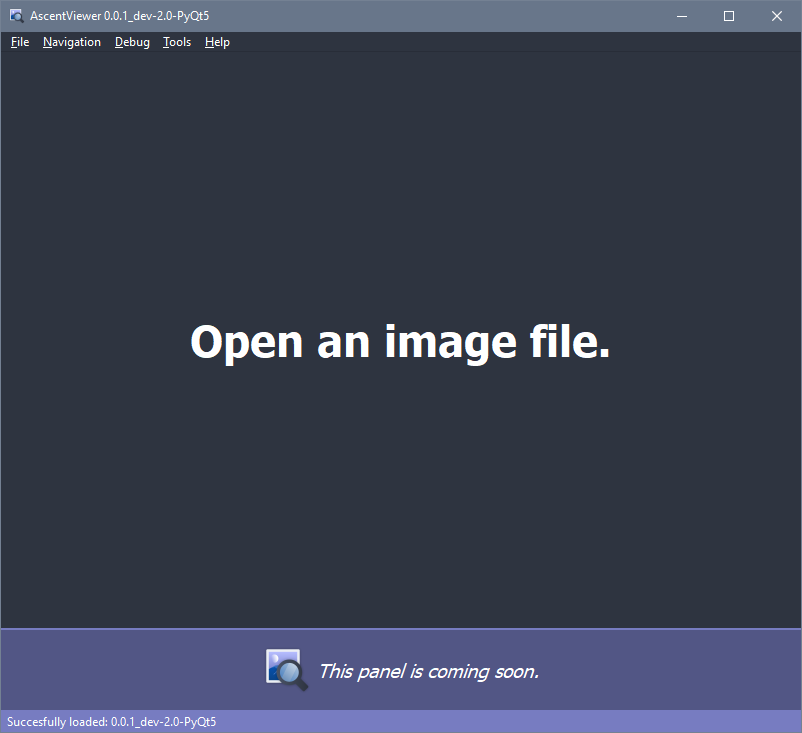
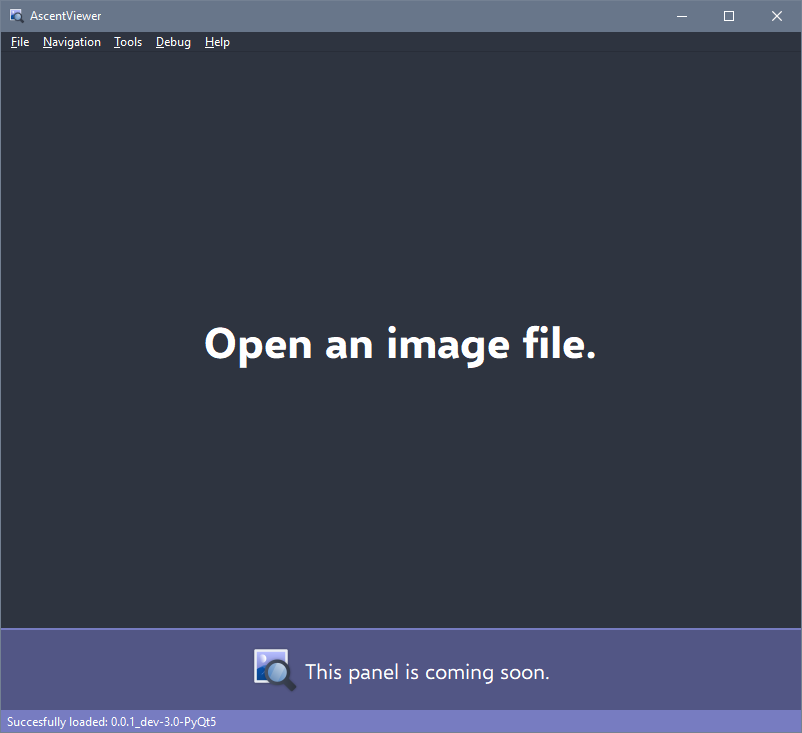
Added Releaser and changed some other things

Changed region(s): [[0.2182, 0.4202, 0.7481, 0.5102], [0.3117, 0.8704, 0.6858, 0.9604], [0.1247, 0.0, 0.2494, 0.09]]

diff --git a/source/releaser/lib/rlsr_logging.py b/source/releaser/lib/rlsr_logging.py
@@ -1,3 +1,5 @@
+# A modified version of AscentViewer's logger.
+
 import sys
 import logging
 import datetime
@@ -23,22 +25,22 @@ date_format_file = "%d%m%Y_%H%M%S"
 date_format = "%d-%m-%Y %H:%M:%S"
 
 try:
-    os.chdir(os.path.abspath(__file__.replace(os.path.basename(__file__), "../..")))
+    os.chdir(os.path.abspath(__file__.replace(os.path.basename(__file__), "..")))
 except:
     pass
 
-config = json.load(open("data/user/config.json", encoding="utf-8"))
+config = json.load(open("config/config.json", encoding="utf-8"))
 
 print("Deleting logs on statup is ", end="")
 if config["temporary_files"]["logs"]["deleteLogsOnStartup"]:
     print("enabled, erasing all logs...")
-    logs = glob.glob("data/user/temp/logs/log*.log")
+    logs = glob.glob("logs/log*.log")
     for f in logs:
         os.remove(f)
 else:
     print("disabled, not deleting logs.")
 
-logfile = f"data/user/temp/logs/log_{datetime.datetime.now().strftime(date_format_file)}.log"
+logfile = f"logs/log_{datetime.datetime.now().strftime(date_format_file)}.log"
 with open(logfile, "a") as f: # this code is a bit messy but all this does is just write the same thing both to the console and the logfile
     m = "="*20 + "[ BEGIN LOG ]" + "="*20
     f.write(f"{m}\n")
@@ -51,7 +53,7 @@ logging.basicConfig(level=loggingLevel,
                     format="[%(asctime)s | %(name)s | %(funcName)s | %(levelname)s] %(message)s",
                     datefmt=date_format)
 
-ascvLogger = logging.getLogger("Main logger")
+expLogger = logging.getLogger("Main logger")
 stdouterrLogger = logging.getLogger("stdout/stderr")
-sys.stdout = StreamToLogger(stdouterrLogger, logging.INFO)
-sys.stderr = StreamToLogger(stdouterrLogger, logging.ERROR)
+#sys.stdout = StreamToLogger(stdouterrLogger, logging.INFO)
+#sys.stderr = StreamToLogger(stdouterrLogger, logging.ERROR)

diff --git a/source/releaser/releaser.py b/source/releaser/releaser.py
@@ -1,0 +1,36 @@
+# A script that uses auto-py-to-exe and PyInstaller to export a Windows executable from the source code.
+
+import sys
+import os
+import subprocess
+
+class MainExporter:
+    def __init__(self):
+        # from https://stackoverflow.com/a/24595376/14558305
+        #proc = subprocess.Popen("python --version", stdout=subprocess.PIPE, shell=True)
+        #(out, err) = proc.communicate()
+        #expLogger.info(out)
+
+        subprocess.run("pyinstaller --noconfirm --onedir --console --icon \"icon3_UaA_icon.ico\" --name \"AscentViewer\" --add-data \"../data;data/\"  \"../ascv.py\"")
+
+if __name__ == "__main__":
+    print("This script might make some changes to your system. Are you sure you want to continue? (y/yes/n/no)\n> ", end="")
+    answer = input().lower()
+
+    if answer == "y" or answer == "yes":
+        print("Okay, continuing script...")
+    elif answer == "n" or answer == "no":
+        print("Okay, cancelling script...")
+        exit()
+
+    # I like to force-delete variables that will not be used anymore.
+    del answer 
+
+    from lib.rlsr_logging import *
+
+    try:
+        os.chdir(__file__.replace(os.path.basename(__file__), ""))
+    except:
+        pass
+
+    MainExporter()

diff --git a/source/releaser/lib/add_lib.py b/source/releaser/lib/add_lib.py
@@ -1,0 +1,7 @@
+# from https://medium.com/@philipp.h/reduce-clutter-when-using-pyinstaller-in-one-directory-mode-b631b9f7f89b
+
+import sys
+import os
+
+sys.path.append(os.path.join(os.getcwd(), 'lib'))
+sys._MEIPASS=os.path.join(sys._MEIPASS, 'lib')

diff --git a/README.md b/README.md
@@ -6,29 +6,21 @@
 ![GitHub commit activity](https://img.shields.io/github/commit-activity/m/despawnedd/AscentViewer?logo=github)
 ![GitHub repo size](https://img.shields.io/github/repo-size/despawnedd/AscentViewer?logo=github)
 
-**AscentViewer** is an image viewer written in [**Python**](https://www.python.org/) based on [**PyQt**](https://riverbankcomputing.com/software/pyqt/) and [**several other libraries.**](other/markdown/CREDITS.md)
+**AscentViewer** is an image viewer written in [Python](https://www.python.org/) based on [PyQt](https://riverbankcomputing.com/software/pyqt/) and [several other libraries.](other/markdown/CREDITS.md)
 
-Here is [**its website**](https://dd.acrazytown.com/AscentViewer/).
+Here is [its website](https://dd.acrazytown.com/AscentViewer/).
 
 ---
 
-## Possible switch to C++ Qt
-
-There is a high possibility that we will switch from PyQt to native C++ Qt, due to various reasons, such as:
-
-* More documentation
-* Speed and control
-* etc.
-
-If we do decide to switch to native C++ Qt, we'll make a stable Python version, and then archive it (put it in a different branch, like old DDIV).
+<!-- NOTE: Add notice about downloads. -->
 
 ## What happened to DDIV?
 
-DDIV got renamed to "**AscentViewer**".
+DDIV got renamed to **AscentViewer**.
 
-The main reason for that is that [**DespawnedDiamond**](https://github.com/despawnedd) (the owner) is not the only one working on it anymore, and the second reason is that "AscentViewer" just sounds cooler!
+The main reason for that is that the owner of the program, [DespawnedDiamond](https://github.com/despawnedd), is not the only one working on it anymore (DDIV was short for <u>*DespawnedDiamond's*</u> *Image Viewer*"), and the second reason is that "AscentViewer" just sounds better.
 
-Looking for old, pre-rename/Old Pre-release Beta code? Check out the [**"pre-rename" branch.**](https://github.com/despawnedd/AscentViewer/tree/pre-rename)
+Looking for old, pre-rename/Old Pre-release Beta code? Check out the ["pre-rename" branch.](https://github.com/despawnedd/AscentViewer/tree/pre-rename)
 
 ---
 
@@ -36,51 +28,83 @@ Looking for old, pre-rename/Old Pre-release Beta code? Check out the [**"pre-ren
 
 ![Main window screenshot](other/examples/ascv_0.0.1_pre-release.png)
 
-> *AscentViewer 0.0.1_dev-2.0-PyQt5's main window*
+> *AscentViewer's main window*
 
 ![About window screenshot](other/examples/ascv_0.0.1_pre-release_about.png)
 
-> *AscentViewer 0.0.1_dev-2.2-PyQt5's about window*
+> *AscentViewer's about window*
 
-## How to install
+## How to run/install
 
-* Install Python 3.7+ (make sure you install ``pip``)
+You can either use one of the prebuilt binaries in one of the [Releases](https://github.com/despawnedd/AscentViewer/releases), or you could run the raw Python version.
+
+Here are the instructions for running the raw Python version:
+
+### Windows
+
+* Install Python 3.7 or higher from [here](https://www.python.org/downloads/).
+* Run `py -m pip install -r requirements.txt` (or `pip install -r requirements.txt` if you installed Python on PATH)
+* Run [ascv.py](source/ascv.py).
+
+### macOS
+
+macOS usually comes with a copy of Python but that's an old version which isn't supported.
+
+The procedure is the same as on Windows:
+
+* Download and install Python 3.7 or higher from [here](https://www.python.org/downloads/).
+* Run `python3 -m pip install -r requirements.txt`.
+* Run [ascv.py](source/ascv.py).
+
+### Linux
+
+* Install Python 3.7 or higher. The recommeneded way to do so is by installing it using a package manager, such as apt (`apt install python3`). Note: using a package manager might require administrator access.
+* You might also have to install qt5-default (for apt, the command is `apt install qt5-default`).
+* Run `python3 -m pip install -r requirements.txt`.
+* Run [ascv.py](source/ascv.py).
+
+<!-- ### Windows
+
+* Install Python 3.7 or higher somehow. The recommended way to do so is by downloading it from Python's official website:
+  * Download Python 3.7 or higher from [Python's website](https://www.python.org/downloads/).
+  * Install the downloaded Python version (make sure you select the [Add to PATH  checkbox](other/markdown/img/add_to_path_win.png))
+* Run [ascv.py](source/ascv.py), either by opening it in File Explorer (if you installed the [Python launcher()]), or by running it from the command line.
+
+### macOS
+
+Detailed instructions for macOS are coming soon
+
+### Linux
+
+> Please correct me if something is wrong here by creating an issue or a pull request.
+
+* Install Python 3.7 or higher, either by building it from source, or by installing it using your favourite package manager, such as apt (``sudo apt install python3``).
+* You might have to install ``qt5-default``. Again, install it by using your favourite package manager, such as apt (``sudo apt install qt5-default``).
+* Run [ascv.py](source/ascv.py) using the Python version you installed. If you installed it using a package manager (of if you have added it to PATH yourself), this can be done by running ``python3 [path to ascv.py]`` (eg. ``python3 ascv.py``) -->
+
+**tl;dr:** Install Python, and then run [ascv.py](source/ascv.py).
+
+<!-- * Install Python 3.7+ (make sure you install ``pip``)
 * Run ``pip install -r requirements.txt`` while in the root directory, or just manually install the required packages
-* If you're on Linux, you might have to install ``qt5-default`` (on Ubuntu, the command is ``sudo apt install qt5-default``)
+* If you're on Linux, you might have to install ``qt5-default`` (on Ubuntu, the command is ``sudo apt install qt5-default``) 
 
-And that's it.
+And that's it. -->
 
 ## Credits
 
-Credits are coming soon.
+You can read the credits [here](other/markdown/CREDITS.md).
 
 ## Documentation
 
-It's coming soon, just like the credits.
+You can read the documentation [here](https://github.com/despawnedd/AscentViewer/wiki).
 
 ## Release version naming info
 
 Each version name consists of four elements:
 
-- major version number
-- minor version number
-- revision number
-- additional info (such as the branch)
+* major version number
+* minor version number
+* revision number
+* additional info (such as the branch, the pre-release version number, etc.)
 
 e.g. **1.0.3_dev-1.3**
-
-*Will add more info about this later.*
-
-<!-- ### Version Structure (a.b.c-bld-rev_rl)
-
-"**a**" is the **major version** number (e.g. "**1.0.0**").
-
-"**b**" is the **minor version** number (e.g. "**1.3.0**").
-
-"**c**" is the **match version** number (e.g. "**1.3.8**").
-
-"**bld**" is the **build version** number (e.g. "**1.3.8-201204**") (*The build number's pretty much the date the "build" was made in, formatted like this: last two digits of the  year + month + day*).
-
-"**rev**" is the **revision number** of that build. This will only be used in cases that there are several builds in one day. (e.g. "**1.3.8-201204-4**").
-
-"**rl**" is the **release branch** indicator (eg. "**1.3.8-201204-4_master**") -->
